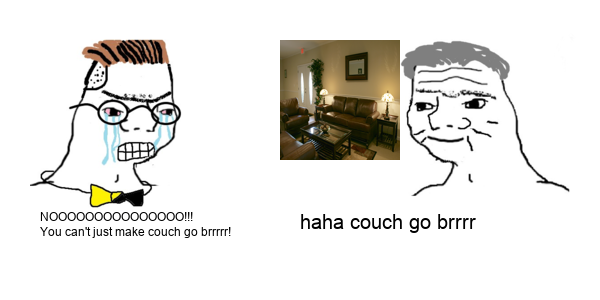
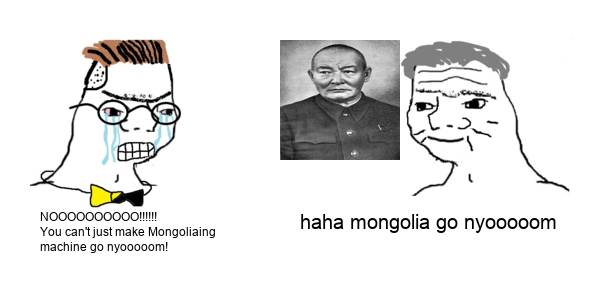
nyooming capabilities increased tenfold

Changed region(s): [[0.45, 0.12, 0.69, 0.54], [0.57, 0.72, 0.93, 0.78], [0.06, 0.69, 0.39, 0.84]]

diff --git a/templates/frontpage.html b/templates/frontpage.html
@@ -14,36 +14,58 @@
     }
     form {
       position: absolute;
-      left: 500px;
+      left: 400px;
       top: 120px;
     }
     button {
       font-size: 200%;
       display: block;
       position: absolute;
-      left: 500px;
-      top: -10px;
+      left: 610px;
+      top:0px;
     }
     .textbox{
       display: flex;
       /* justify-content: center; */
       flex-direction: row;
       position: absolute;
-      
-      left: 150px;
+
+      left:-60px;
       align-items: center;
-      top: 350px;
-     
+      top: 300px;
+
     }
     .text{
       width:400px;
+      font-size: 200%;
+
 
     }
-    
+
+    select{
+      position: absolute;
+      left: 470px;
+      top: 0px;
+      height:100%;
+    }
+
+    h1{
+      position: absolute;
+      left: 250px;
+      top: 400px;
+      font-family: "Arial";
+    }
+    h2{
+      position: absolute;
+      left: 760px;
+      top: 405px;
+      font-family: "Arial";
+    }
+
     img{
       position: absolute;
-      left: 625px;
-      top: 120px;
+      left: 320px;
+      top: 100px;
     }
     .main{
       text-align: center;
@@ -56,12 +78,22 @@
 
 <body>
 
+  <h1> Make </h1>
+  <h2> go </h2>
+
   <img src="{{ user_image }}" alt="User Image">
 
   <div class = "textbox">
     <form method="POST" action="/parse">
       <input  class = "text" type="text" id="user_i" name="user_i"><br></input>
-      <button type="submit">brrrrrrr</button>
+      <select name = "sounds">
+        <option value="brrrr">brrrr</option>
+        <option value="wheeeee">wheeeee</option>
+        <option value="nyooooom">nyooooom</option>
+        <option value="skrrrrrt">skrrrrrt</option>
+        <option value="weewooweewoo">weewooweewoo</option>
+      </select>
+      <button type="submit">Generate!</button>
 
     </form>
   </div>

diff --git a/flaskbrr.py b/flaskbrr.py
@@ -19,7 +19,7 @@ def home():
     #link = item["link"]
     #verbose = item["verbose"]
     #img = makeimage.makeImage(search, src)
-    return render_template("frontpage.html", user_image = "static/splash.png")
+    return render_template("frontpage.html", user_image = "static/splash1.png")
 
 @app.route("/random")
 def random():
@@ -34,12 +34,13 @@ def parse():
 
         #make verbose
         verbo = request.form['user_i']
+        sound = request.form['sounds']
 
         if verbo == "money printer":
             return send_file('original_meme.png', mimetype='image')
 
 
-        verbose = "NOOOOOOOOOO" + '!'*randrange(5,8) + " You can't just make " + verbo + " go brrrrr!"
+        verbose = "NOOOOOOOOOO" + '!'*randrange(5,8) + " You can't just make " + verbo + " go " + sound + "!"
         #you cant just make -synonym/hypernym- machine go brrrrr
 
         #get image from wikipedia and save to computer
@@ -48,20 +49,7 @@ def parse():
         if len(res) > 0:
 
 
-            if len(wordnet.synsets(verbo)) > 0:
-                syn = wordnet.synsets(request.form['user_i'])[0]
-                lemmas = syn.lemmas()
-                if len(syn.lemmas()) > 1:
-                    if lemmas[0].name() == verbo:
-                        verbo = lemmas[1].name()
-                    else:
-                        verbo = lemmas[0].name()
-                    print(verbo)
-                    verbo.replace("_"," ")
-                    verbose = "NOOOOOOOOOO" + '!'*randrange(5,8) + " You can't just make " + verbo + "ing machine go brrrrr!"
-                    print(verbose)
 
-            print(verbose)
 
 
 
@@ -73,8 +61,24 @@ def parse():
                     print(img)
                     path = "static/"+request.form['user_i'].replace(" ","")+".jpg"
                     urllib.request.urlretrieve(img, path)
+
+                    if len(wordnet.synsets(verbo)) > 0:
+                        syn = wordnet.synsets(request.form['user_i'])[0]
+                        lemmas = syn.lemmas()
+                        if len(syn.lemmas()) > 1:
+                            if lemmas[0].name() == verbo:
+                                verbo = lemmas[1].name()
+                            else:
+                                verbo = lemmas[0].name()
+                            print(verbo)
+                            verbo.replace("_"," ")
+                            verbose = "NOOOOOOOOOO" + '!'*randrange(5,8) + " You can't just make " + verbo + "ing machine go " + sound + "!"
+                            print(verbose)
+
+                    print(verbose)
                 else:
                     return send_file('404page.png', mimetype='image')
+
 
             except wikipedia.DisambiguationError as e:
                 try:
@@ -100,7 +104,7 @@ def parse():
                 #img = the link to image to be displayed
             upsertDB(request.form['user_i'], img, verbose, src)
 
-            img = makeimage.makeImage(request.form['user_i'], src)
+            img = makeimage.makeImage(request.form['user_i'], src, sound)
 
             #change to PIL image
             #return send_file(path, mimetype='image')

diff --git a/makeimage.py b/makeimage.py
@@ -2,7 +2,7 @@
 # from databasemachine import getLink
 from PIL import Image, ImageDraw, ImageFont
 import urllib.request
-def makeImage(key, src):
+def makeImage(key, src, sound):
 
     #GET MONGO INFO
     item = src.find_one({"search" : key})
@@ -33,7 +33,7 @@ def makeImage(key, src):
 
     #rightguy uses mongo_key
     font = ImageFont.truetype("arial.ttf", 20)
-    d.text((300,210), "haha "+key[:20]+" go brrrr", fill=(0,0,0), font=font)
+    d.text((300,210), "haha "+key[:20]+" go " + sound, fill=(0,0,0), font=font)
 
     path = "static/"+key.replace(" ","")+".jpg"
     urllib.request.urlretrieve(link, path)
